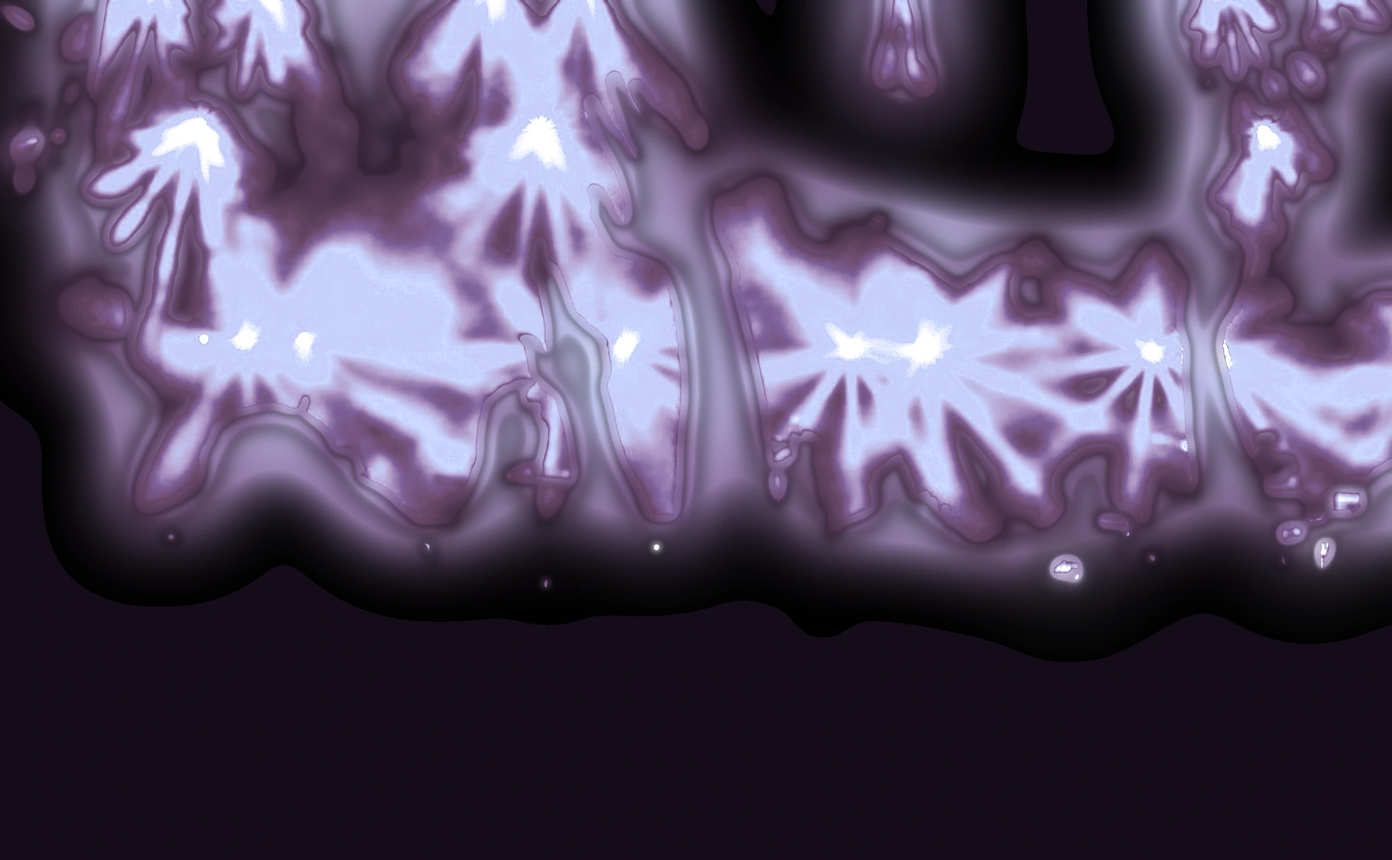
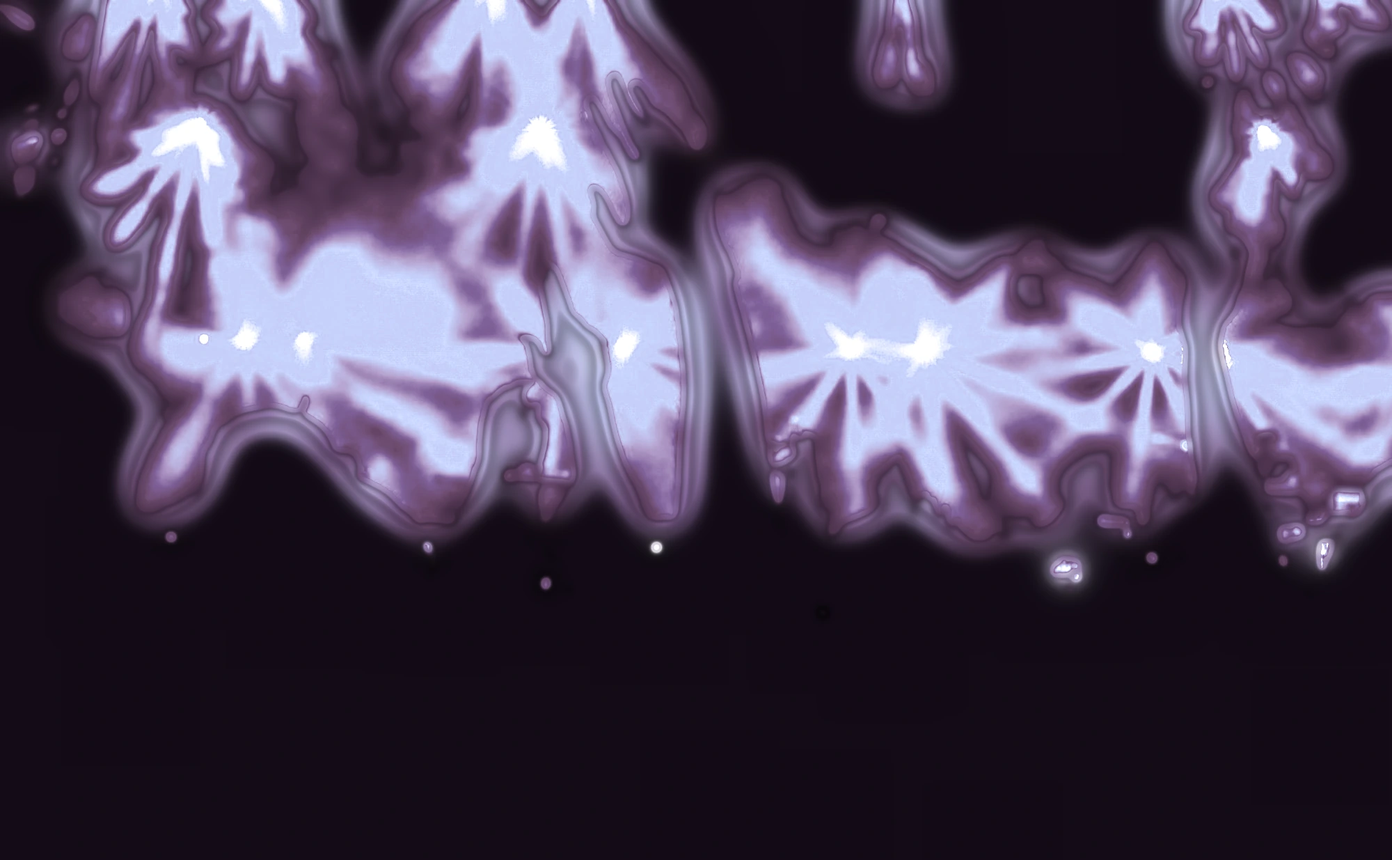
Opening screen gets a live photo; landing and organisers photos move like a crowd
The Tap to enter screen now sits on a full-bleed photo of the crowd under the
lights. Each photo's two layers (lights behind, hands and crowd in front) are
drawn together on the graphics card: a slow wave rolls across the crowd, heads
bob on the beat, raised arms sway most, the stage lights breathe and beams sweep
behind everybody, and a tap sends a ripple through the crowd. Without WebGL, or
with reduced motion, the two images stay as a still photo.

Also: every stylesheet, script and image URL on both pages carries a version
(the zone sets a 4 hour browser cache, which could pair a new page with an old
stylesheet); the live layer's state class no longer collides with the .live
badge style; the glow behind the crowd is limited to near the lights so a
bobbing head shows no halo; link cards are titles only.

Claude-Session: https://claude.ai/code/session_01SiTP2wn1HdnciTk7XSJexB

diff --git a/worker/public/js/livephoto.js b/worker/public/js/livephoto.js
@@ -1,0 +1,175 @@
+// Live photos. Each .lp[data-live] holds two layers of one photo: the lights behind (img.bg) and the dark hands and crowd in
+// front (img.fg). Here both go to the graphics card, where the crowd moves like people (a slow wave rolls across it, heads
+// bob on the beat, raised arms sway the most), the stage lights twinkle and pulse, beams sweep behind everybody, and a tap
+// sends a ripple through the crowd. Without WebGL, or with reduced motion, the two images stay as a still photo.
+(function () {
+  'use strict';
+  var reduce = window.matchMedia && window.matchMedia('(prefers-reduced-motion: reduce)').matches;
+  var els = Array.prototype.slice.call(document.querySelectorAll('.lp[data-live]'));
+  if (!els.length || reduce) return;
+
+  var VS = 'attribute vec2 a;varying vec2 v;void main(){v=a*.5+.5;gl_Position=vec4(a,0.,1.);}';
+  var FS = [
+    '#ifdef GL_FRAGMENT_PRECISION_HIGH', 'precision highp float;', '#else', 'precision mediump float;', '#endif',
+    'varying vec2 v;uniform sampler2D bg;uniform sampler2D fg;',
+    'uniform vec4 crop;uniform float t;uniform float ca;uniform vec3 tap;uniform vec2 mouse;uniform float amp;',
+    'float h(vec2 p){return fract(sin(dot(p,vec2(127.1,311.7)))*43758.5453);}',
+    'float nz(vec2 p){vec2 i=floor(p),f=fract(p);f=f*f*(3.-2.*f);return mix(mix(h(i),h(i+vec2(1.,0.)),f.x),mix(h(i+vec2(0.,1.)),h(i+vec2(1.,1.)),f.x),f.y);}',
+    // one light beam shining down from above the picture
+    'vec3 beam(vec2 p,float ox,float base,float sw,float sp,float ph,vec3 col){',
+    '  vec2 d=p-vec2(ox,-.12);float ang=atan(d.x,d.y);float df=ang-(base+sw*sin(t*sp+ph));',
+    '  float core=exp(-df*df*520.)*.7+exp(-df*df*38.)*.3;',
+    '  return col*core*smoothstep(1.5,.05,length(d));}',
+    'void main(){',
+    '  vec2 uv=crop.zw+vec2(v.x,1.-v.y)*crop.xy;',
+    '  float low=uv.y;',
+    '  float up=pow(clamp(1.-low,0.,1.),1.25);',                                      // raised arms: the higher, the more they sway
+    '  float crowd=smoothstep(.3,.95,low);',                                          // heads and shoulders: the lower, the more they bob
+    '  vec2 d=vec2(0.);',
+    '  d.x+=sin(t*1.7+uv.x*5.5+uv.y*3.)*.0056*up+sin(t*3.1+uv.x*12.)*.0021*up;',
+    '  d.y+=sin(t*3.25+uv.x*7.)*.0034*crowd+sin(t*1.4+uv.x*3.)*.0019*crowd;',        // bob on the beat, plus a slow wave across the crowd
+    '  d.y+=sin(t*2.2+uv.x*6.)*.0024*up;',
+    '  vec2 tp=crop.zw+vec2(tap.x,1.-tap.y)*crop.xy;float age=tap.z;',
+    '  if(age>=0.){vec2 r=uv-tp;r.x*=ca;float dist=length(r);float w=exp(-age*1.7)*sin(dist*46.-age*11.)*exp(-dist*4.5)*.011;d+=normalize(r+1e-5)*w*vec2(1./ca,1.);}',
+    '  d*=amp;',
+    '  vec2 par=(mouse-.5)*vec2(.006,.003);',
+    '  vec4 f=texture2D(fg,uv+d+par);',
+    '  vec3 c=texture2D(bg,uv-par*.6+d*.25).rgb;',
+    '  float L=dot(c,vec3(.299,.587,.114));',
+    '  float lit=smoothstep(.78,.97,L);',
+    '  float tw=nz(uv*vec2(26.,17.)+vec2(t*.45,-t*.7));',
+    '  float pulse=.5+.5*sin(t*3.25);pulse=pulse*pulse*pulse;',
+    '  c+=c*lit*(.2*pulse+.34*(tw-.5));',                                             // only the hottest stage lights twinkle
+    '  c*=1.+.07*pulse;',                                                             // the whole room breathes a little on the beat
+    '  vec2 p=vec2((v.x-.5)*ca,1.-v.y);',
+    '  c+=beam(p,-.55*ca,.34,.28,.43,0.,vec3(.66,.33,.97))*.34;',
+    '  c+=beam(p,.02,.0,.34,.31,2.1,vec3(.36,.55,1.))*.30;',
+    '  c+=beam(p,.55*ca,-.34,.26,.52,4.2,vec3(1.,.31,.85))*.32;',
+    '  c+=vec3(.7,.6,.95)*.09*pulse*smoothstep(.9,.0,length(p-vec2(0.,.35)));',
+    '  vec3 col=clamp(f.rgb+c*(1.-f.a),0.,1.);',
+    '  col=mix(col,col*col*(3.-2.*col),.34);',                                         // a gentle S-curve: deeper darks, cleaner lights
+    '  col*=1.-.2*smoothstep(.55,1.15,length((v-.5)*vec2(1.2,1.)));',                  // a soft dark edge
+    '  gl_FragColor=vec4(col,1.);}'
+  ].join('\n');
+
+  function compile(gl, type, src) { var s = gl.createShader(type); gl.shaderSource(s, src); gl.compileShader(s); return gl.getShaderParameter(s, gl.COMPILE_STATUS) ? s : null; }
+
+  function Live(lp) {
+    this.lp = lp; this.ok = false; this.visible = false; this.tap = [0, 0, -1]; this.tapAt = 0; this.mouse = [.5, .5]; this.mt = [.5, .5];
+    this.dpr = Math.min(window.devicePixelRatio || 1, 2); this.slow = 0;
+    this.bgImg = lp.querySelector('img.bg'); this.fgImg = lp.querySelector('img.fg');
+    this.amp = parseFloat(lp.getAttribute('data-amp')) || 1;
+  }
+  Live.prototype.init = function () {
+    var self = this, lp = this.lp, cv = document.createElement('canvas');
+    cv.className = 'lp-canvas'; cv.setAttribute('aria-hidden', 'true');
+    var gl = null;
+    try { gl = cv.getContext('webgl', { antialias: false, alpha: false, premultipliedAlpha: false }) || cv.getContext('experimental-webgl'); } catch (e) {}
+    if (!gl) return false;
+    var vs = compile(gl, gl.VERTEX_SHADER, VS), fs = compile(gl, gl.FRAGMENT_SHADER, FS);
+    if (!vs || !fs) return false;
+    var pr = gl.createProgram(); gl.attachShader(pr, vs); gl.attachShader(pr, fs); gl.linkProgram(pr);
+    if (!gl.getProgramParameter(pr, gl.LINK_STATUS)) return false;
+    gl.useProgram(pr);
+    var buf = gl.createBuffer(); gl.bindBuffer(gl.ARRAY_BUFFER, buf);
+    gl.bufferData(gl.ARRAY_BUFFER, new Float32Array([-1, -1, 1, -1, -1, 1, 1, 1]), gl.STATIC_DRAW);
+    var loc = gl.getAttribLocation(pr, 'a'); gl.enableVertexAttribArray(loc); gl.vertexAttribPointer(loc, 2, gl.FLOAT, false, 0, 0);
+    this.gl = gl; this.cv = cv; this.pr = pr;
+    this.u = {}; ['bg', 'fg', 'crop', 't', 'ca', 'tap', 'mouse', 'amp'].forEach(function (n) { self.u[n] = gl.getUniformLocation(pr, n); });
+    function tex(img, unit, premult) {
+      var t = gl.createTexture(); gl.activeTexture(gl.TEXTURE0 + unit); gl.bindTexture(gl.TEXTURE_2D, t);
+      gl.pixelStorei(gl.UNPACK_PREMULTIPLY_ALPHA_WEBGL, premult ? 1 : 0);
+      gl.texImage2D(gl.TEXTURE_2D, 0, gl.RGBA, gl.RGBA, gl.UNSIGNED_BYTE, img);
+      gl.texParameteri(gl.TEXTURE_2D, gl.TEXTURE_MIN_FILTER, gl.LINEAR); gl.texParameteri(gl.TEXTURE_2D, gl.TEXTURE_MAG_FILTER, gl.LINEAR);
+      gl.texParameteri(gl.TEXTURE_2D, gl.TEXTURE_WRAP_S, gl.CLAMP_TO_EDGE); gl.texParameteri(gl.TEXTURE_2D, gl.TEXTURE_WRAP_T, gl.CLAMP_TO_EDGE);
+      return t;
+    }
+    try {
+      if (Math.max(this.bgImg.naturalWidth, this.bgImg.naturalHeight) > gl.getParameter(gl.MAX_TEXTURE_SIZE)) return false;
+      this.tBg = tex(this.bgImg, 0, false); this.tFg = tex(this.fgImg, 1, true);
+    } catch (e) { return false; }
+    gl.uniform1i(this.u.bg, 0); gl.uniform1i(this.u.fg, 1);
+    this.iw = this.bgImg.naturalWidth; this.ih = this.bgImg.naturalHeight;
+    cv.addEventListener('webglcontextlost', function (e) { e.preventDefault(); self.drop(); });
+    lp.insertBefore(cv, lp.firstChild);
+    this.size(); this.ok = true; this.draw(0);
+    lp.classList.add('lp-on');                      // the still images and CSS lights step aside
+    return true;
+  };
+  Live.prototype.drop = function () { this.ok = false; this.lp.classList.remove('lp-on'); if (this.cv && this.cv.parentNode) this.cv.parentNode.removeChild(this.cv); };
+  Live.prototype.size = function () {
+    var r = this.lp.getBoundingClientRect(), w = Math.max(2, Math.round(r.width * this.dpr)), h = Math.max(2, Math.round(r.height * this.dpr));
+    if (this.cv.width !== w || this.cv.height !== h) { this.cv.width = w; this.cv.height = h; this.gl.viewport(0, 0, w, h); }
+  };
+  Live.prototype.pos = function () {                // the --pos / --pos-m focus point, as object-position does for the still photo
+    var cs = getComputedStyle(this.lp), raw = (window.innerWidth <= 760 && cs.getPropertyValue('--pos-m').trim()) || cs.getPropertyValue('--pos').trim() || '50% 40%';
+    var m = raw.split(/\s+/).map(function (s) { return parseFloat(s) / 100; });
+    return [isNaN(m[0]) ? .5 : m[0], isNaN(m[1]) ? .4 : m[1]];
+  };
+  Live.prototype.draw = function (t) {
+    var gl = this.gl; if (!this.ok || !gl) return;
+    var cw = this.cv.width, ch = this.cv.height, ca = cw / ch, ia = this.iw / this.ih, p = this.pos();
+    var sx = 1, sy = 1, ox = 0, oy = 0;
+    if (ca > ia) { sy = ia / ca; oy = (1 - sy) * p[1]; } else { sx = ca / ia; ox = (1 - sx) * p[0]; }
+    var z = 1.035 + .02 * (.5 + .5 * Math.sin(t * .09));            // a slow push in and out
+    var nsx = sx / z, nsy = sy / z; ox += (sx - nsx) * .5; oy += (sy - nsy) * .5;
+    this.mouse[0] += (this.mt[0] - this.mouse[0]) * .05; this.mouse[1] += (this.mt[1] - this.mouse[1]) * .05;
+    var age = this.tap[2] >= 0 ? t - this.tapAt : -1; if (age > 3.2) { age = -1; this.tap[2] = -1; }
+    gl.uniform4f(this.u.crop, nsx, nsy, ox, oy); gl.uniform1f(this.u.t, t); gl.uniform1f(this.u.ca, ca);
+    gl.uniform3f(this.u.tap, this.tap[0], this.tap[1], age); gl.uniform2f(this.u.mouse, this.mouse[0], this.mouse[1]); gl.uniform1f(this.u.amp, this.amp);
+    gl.drawArrays(gl.TRIANGLE_STRIP, 0, 4);
+  };
+
+  var items = [], t0 = performance.now(), docVisible = true;
+  document.addEventListener('visibilitychange', function () { docVisible = !document.hidden; });
+
+  function ready(img, cb) { if (img.complete && img.naturalWidth) cb(); else { img.addEventListener('load', cb, { once: true }); } }
+  function boot(lp) {
+    var it = new Live(lp); items.push(it);
+    if (!it.bgImg || !it.fgImg) return;
+    var started = false;
+    function go() { if (started) return; started = true; var n = 0; function one() { if (++n < 2) return; if (!it.init()) it.ok = false; } ready(it.bgImg, one); ready(it.fgImg, one); }
+    if ('IntersectionObserver' in window) {
+      new IntersectionObserver(function (es) { es.forEach(function (e) { it.visible = e.isIntersecting; if (e.isIntersecting) go(); }); }, { rootMargin: '300px 0px' }).observe(lp);
+    } else { it.visible = true; go(); }
+  }
+  els.forEach(boot);
+
+  var last = 0;
+  function frame(now) {
+    requestAnimationFrame(frame);
+    if (!docVisible) return;
+    var dt = now - last; if (dt < 15) return; last = now;
+    var t = (now - t0) / 1000;
+    for (var i = items.length - 1; i >= 0; i--) {                     // the opening screen is removed from the page once it has played: give its memory back
+      var gone = items[i]; if (gone.lp.isConnected) continue;
+      try { var lose = gone.gl && gone.gl.getExtension('WEBGL_lose_context'); if (lose) lose.loseContext(); } catch (e) {}
+      gone.ok = false; items.splice(i, 1);
+    }
+    for (var i = 0; i < items.length; i++) {
+      var it = items[i]; if (!it.ok || !it.visible) continue;
+      it.size(); it.draw(t);
+      if (dt > 42) { it.slow++; if (it.slow > 40 && it.dpr > 1) { it.dpr = 1; it.slow = 0; } } else if (it.slow > 0) it.slow--;   // slow device: draw smaller
+    }
+  }
+  requestAnimationFrame(frame);
+
+  // taps and the pointer reach the crowd
+  document.addEventListener('pointerdown', function (e) {
+    var t = (performance.now() - t0) / 1000;
+    items.forEach(function (it) {
+      if (!it.ok || !it.visible) return;
+      var r = it.lp.getBoundingClientRect();
+      if (e.clientX < r.left || e.clientX > r.right || e.clientY < r.top || e.clientY > r.bottom) return;
+      it.tap = [(e.clientX - r.left) / r.width, (e.clientY - r.top) / r.height, 0]; it.tapAt = t;
+    });
+  }, { passive: true });
+  document.addEventListener('pointermove', function (e) {
+    items.forEach(function (it) {
+      if (!it.ok || !it.visible) return;
+      var r = it.lp.getBoundingClientRect();
+      if (e.clientY < r.top || e.clientY > r.bottom) return;
+      it.mt = [(e.clientX - r.left) / r.width, (e.clientY - r.top) / r.height];
+    });
+  }, { passive: true });
+})();

diff --git a/worker/public/index.html b/worker/public/index.html
@@ -23,20 +23,25 @@
 <meta name="apple-mobile-web-app-title" content="Tap In">
 <link rel="preconnect" href="https://fonts.googleapis.com">
 <link rel="stylesheet" href="https://fonts.googleapis.com/css2?family=Syne:wght@600;700;800&family=Manrope:wght@400;500;600;700&family=JetBrains+Mono:wght@400;500&display=swap">
-<link rel="stylesheet" href="/css/tapin.css">
-<link rel="stylesheet" href="/site.css">
-<link rel="stylesheet" href="/css/fx.css">
-<link rel="stylesheet" href="/home.css">
-<script src="/js/theme.js"></script>
-<script src="/js/site.js" defer></script>
-<script src="/js/fx.js" defer></script>
-<script src="/js/liquid.js" defer></script>
-<script src="/js/home.js" defer></script>
-<script src="/js/intro.js" defer></script>
-<script src="/js/rave.js" defer></script>
+<link rel="stylesheet" href="/css/tapin.css?v=7">
+<link rel="stylesheet" href="/site.css?v=7">
+<link rel="stylesheet" href="/css/fx.css?v=7">
+<link rel="stylesheet" href="/home.css?v=7">
+<script src="/js/theme.js?v=7"></script>
+<script src="/js/site.js?v=7" defer></script>
+<script src="/js/fx.js?v=7" defer></script>
+<script src="/js/liquid.js?v=7" defer></script>
+<script src="/js/home.js?v=7" defer></script>
+<script src="/js/livephoto.js?v=7" defer></script>
+<script src="/js/intro.js?v=7" defer></script>
+<script src="/js/rave.js?v=7" defer></script>
 </head>
 <body class="home fx">
 <div class="intro" id="intro" role="dialog" aria-modal="true" aria-label="Welcome to Tap In">
+  <div class="lp intro-photo" data-live data-amp="1" style="--pos:50% 52%;--pos-m:54% 52%" aria-hidden="true">
+    <div class="lp-stage"><img class="bg" src="/img/beams-bg.webp?v=7" width="2000" height="1333" alt="" fetchpriority="high" decoding="async"><img class="fg" src="/img/beams-fg.webp?v=7" width="2000" height="1333" alt="" fetchpriority="high" decoding="async"></div>
+    <i class="lp-beam b1"></i><i class="lp-beam b2"></i><i class="lp-beam b3"></i><i class="lp-pulse"></i>
+  </div>
   <span class="veil" aria-hidden="true"></span>
   <span class="spill" aria-hidden="true"></span>
   <div class="intro-center" id="introCenter">
@@ -67,8 +72,8 @@
 </header>
 
 <main>
-  <section class="lp photo-hero" style="--pos:50% 28%;--pos-m:62% 30%">
-    <div class="lp-stage"><img class="bg" src="/img/hands-bg.webp" width="2000" height="1235" alt="" fetchpriority="high" decoding="async"><img class="fg" src="/img/hands-fg.webp" width="2000" height="1235" alt="A crowd at a night show with hands raised towards the stage lights" fetchpriority="high" decoding="async"></div>
+  <section class="lp photo-hero" data-live style="--pos:50% 28%;--pos-m:62% 30%">
+    <div class="lp-stage"><img class="bg" src="/img/hands-bg.webp?v=7" width="2000" height="1235" alt="" fetchpriority="high" decoding="async"><img class="fg" src="/img/hands-fg.webp?v=7" width="2000" height="1235" alt="A crowd at a night show with hands raised towards the stage lights" fetchpriority="high" decoding="async"></div>
     <i class="lp-beam b1"></i><i class="lp-beam b2"></i><i class="lp-beam b3"></i><i class="lp-pulse"></i>
     <div class="lp-copy wrap hero-copy">
       <h1>No paper. <span class="hl">Just tap in.</span></h1>
@@ -79,8 +84,8 @@
     </div>
   </section>
 
-  <section class="lp band" style="--pos:50% 62%" aria-label="Find, get, tap in">
-    <div class="lp-stage"><img class="bg" src="/img/beams-bg.webp" width="2000" height="1333" alt="" loading="lazy" decoding="async"><img class="fg" src="/img/beams-fg.webp" width="2000" height="1333" alt="A crowd facing a DJ on stage, with beams of light crossing above them" loading="lazy" decoding="async"></div>
+  <section class="lp band" data-live style="--pos:50% 62%" aria-label="Find, get, tap in">
+    <div class="lp-stage"><img class="bg" src="/img/beams-bg.webp?v=7" width="2000" height="1333" alt="" loading="lazy" decoding="async"><img class="fg" src="/img/beams-fg.webp?v=7" width="2000" height="1333" alt="A crowd facing a DJ on stage, with beams of light crossing above them" loading="lazy" decoding="async"></div>
     <i class="lp-beam b1"></i><i class="lp-beam b2"></i><i class="lp-beam b3"></i><i class="lp-pulse"></i>
     <div class="lp-copy wrap">
       <ol class="words">
@@ -93,8 +98,8 @@
 
   <section class="wrap sec rv" id="guests">
     <div class="split">
-      <div class="lp tall" style="--pos:50% 60%">
-        <div class="lp-stage"><img class="bg" src="/img/hand-up-bg.webp" width="1500" height="2000" alt="" loading="lazy" decoding="async"><img class="fg" src="/img/hand-up-fg.webp" width="1500" height="2000" alt="One raised hand in a crowd in front of glowing stage lights" loading="lazy" decoding="async"></div>
+      <div class="lp tall" data-live style="--pos:50% 60%">
+        <div class="lp-stage"><img class="bg" src="/img/hand-up-bg.webp?v=7" width="1500" height="2000" alt="" loading="lazy" decoding="async"><img class="fg" src="/img/hand-up-fg.webp?v=7" width="1500" height="2000" alt="One raised hand in a crowd in front of glowing stage lights" loading="lazy" decoding="async"></div>
     <i class="lp-beam b1"></i><i class="lp-beam b2"></i><i class="lp-beam b3"></i><i class="lp-pulse"></i>
       </div>
       <ul class="lines">
@@ -107,9 +112,9 @@
 
   <section class="wrap sec rv">
     <div class="portals">
-      <a class="portal spot" href="/play/"><p class="eyebrow">Going out?</p><h3>Find an event</h3><span class="more">Upcoming events &rarr;</span></a>
-      <a class="portal spot" href="/organisers/"><p class="eyebrow">Running one?</p><h3>For organisers</h3><span class="more">See what you get &rarr;</span></a>
-      <a class="portal spot" href="/business/"><p class="eyebrow">Offices</p><h3>Tap In for Business</h3><span class="more">Staff and visitor check-in &rarr;</span></a>
+      <a class="portal spot" href="/play/"><h3>Find an event</h3><span class="more">Upcoming events &rarr;</span></a>
+      <a class="portal spot" href="/organisers/"><h3>For organisers</h3><span class="more">See what you get &rarr;</span></a>
+      <a class="portal spot" href="/business/"><h3>Tap In for Business</h3><span class="more">Staff and visitor check-in &rarr;</span></a>
     </div>
   </section>
 

diff --git a/worker/public/home.css b/worker/public/home.css
@@ -239,7 +239,7 @@ html.intro-lock main,html.intro-lock .topbar,html.intro-lock .progress{opacity:0
 .topbar{transition:opacity .9s ease .2s}
 html.intro-lock .hero-copy>*,html.intro-lock .stage{animation-play-state:paused!important}
 /* a soft dark edge so the logo stays legible; it opens up like an iris when you tap */
-.intro .veil{position:absolute;inset:0;background:radial-gradient(90% 75% at 50% 48%,transparent 30%,color-mix(in srgb,var(--ink) 62%,transparent) 100%);transition:transform 1.5s cubic-bezier(.6,0,.2,1) .15s,opacity 1.2s ease .3s}
+.intro .veil{position:absolute;inset:0;background:radial-gradient(90% 75% at 50% 48%,transparent 40%,color-mix(in srgb,var(--ink) 38%,transparent) 100%);transition:transform 1.5s cubic-bezier(.6,0,.2,1) .15s,opacity 1.2s ease .3s}
 .intro .spill{position:absolute;left:50%;top:50%;width:0;height:0;border-radius:50%;transform:translate(-50%,-50%);background:radial-gradient(closest-side,#fff,color-mix(in srgb,var(--signal) 65%,transparent) 45%,transparent);opacity:0;pointer-events:none}
 .intro-center{position:absolute;inset:0;display:grid;place-content:center;justify-items:center;text-align:center;gap:clamp(14px,3vh,28px);padding:24px;z-index:2;transition:opacity .9s ease .1s,transform 1.2s cubic-bezier(.5,0,.2,1),filter 1s ease}
 .intro-logo{margin:0;width:min(88vw,900px);line-height:0;font-size:0;color:#fff;filter:drop-shadow(0 0 34px color-mix(in srgb,var(--signal) 55%,transparent)) drop-shadow(0 6px 30px rgba(0,0,0,.35))}
@@ -269,14 +269,14 @@ html.intro-lock .hero-copy>*,html.intro-lock .stage{animation-play-state:paused!
 .intro.go .spill{animation:spill 1.4s ease-out .25s both}
 @keyframes spill{0%{width:0;height:0;opacity:0}20%{opacity:.95}100%{width:230vmax;height:230vmax;opacity:0}}
 .intro.out{opacity:0;transition:opacity .5s;pointer-events:none}
-body.entered .hero2{animation:push 1.7s cubic-bezier(.2,.7,.2,1) both}
+body.entered .photo-hero{animation:push 1.7s cubic-bezier(.2,.7,.2,1) both}
 @keyframes push{from{transform:scale(1.12);filter:blur(7px)}}
 
 /* film grain, very light, over the whole home page */
 .grain{position:fixed;inset:0;z-index:80;pointer-events:none;opacity:.07;mix-blend-mode:overlay;background-size:160px 160px;animation:grain 1.1s steps(6) infinite}
 @keyframes grain{0%{background-position:0 0}20%{background-position:-60px 40px}40%{background-position:50px -70px}60%{background-position:-80px -30px}80%{background-position:60px 60px}100%{background-position:0 0}}
 :root[data-mode="light"] .grain{opacity:.1}
-@media(prefers-reduced-motion:reduce){.intro{display:none!important}.grain{animation:none}.tapbtn .rings i{animation:none}body.entered .hero2{animation:none}}
+@media(prefers-reduced-motion:reduce){.intro{display:none!important}.grain{animation:none}.tapbtn .rings i{animation:none}body.entered .photo-hero{animation:none}}
 
 /* keyboard focus on the Tap button: a glow around the round button, not a rectangle */
 .tapbtn:focus{outline:none}
@@ -325,6 +325,8 @@ body.entered .hero2{animation:push 1.7s cubic-bezier(.2,.7,.2,1) both}
 
 /* ===== Live photos: the lights sit behind, the dark hands and crowd are a second layer that sways in front ===== */
 .lp{position:relative;overflow:hidden;isolation:isolate;background:#120912;color:#fff}
+.lp-canvas{position:absolute;inset:0;width:100%;height:100%;display:block}
+.lp.lp-on .lp-stage,.lp.lp-on .lp-beam,.lp.lp-on .lp-pulse{display:none}
 .lp-stage{position:absolute;inset:-3%;animation:lpdrift 26s ease-in-out infinite alternate}
 .lp-stage img{position:absolute;inset:0;width:100%;height:100%;object-fit:cover;object-position:var(--pos,50% 40%);display:block;-webkit-user-drag:none;user-select:none}
 .lp-stage .bg{animation:lpbeatscale .968s ease-in-out infinite alternate}
@@ -374,3 +376,15 @@ body.entered .hero2{animation:push 1.7s cubic-bezier(.2,.7,.2,1) both}
 @media(max-width:760px){.split,.six,.portals{grid-template-columns:1fr}.lp.tall{aspect-ratio:4/5}.photo-hero{height:clamp(520px,calc(100svh - 64px),760px)}.lp-stage img{object-position:var(--pos-m,var(--pos,50% 40%))}.sec{padding-top:36px}}
 @media(max-width:560px){.words.long b{font-size:5.5vw}}
 @media(prefers-reduced-motion:reduce){.lp-stage,.lp-stage .bg,.lp-stage .fg,.lp-beam,.lp-pulse{animation:none!important}.lp-pulse{opacity:.06}}
+
+/* ===== The opening screen: a full-bleed photo of the crowd under the lights, alive behind the logo ===== */
+.intro .intro-photo{position:absolute;inset:0;transition:opacity 1.2s ease .2s,transform 1.7s cubic-bezier(.5,0,.2,1)}
+.intro .intro-photo::after{background:radial-gradient(58% 52% at 50% 48%,rgba(13,7,15,.58),rgba(13,7,15,.14) 78%,transparent),linear-gradient(0deg,rgba(13,7,15,.6),transparent 38%)}
+.intro.go .intro-photo{opacity:0;transform:scale(1.16)}
+.intro.out .intro-photo{opacity:0}
+/* the photo is dark in both colour modes, so the lettering on it stays light */
+.intro .intro-logo,:root[data-mode="light"] .intro .intro-logo{color:#fff}
+.intro .intro-logo .in,:root[data-mode="light"] .intro .intro-logo .in{color:#c9bbf0}
+.intro .intro-tag{color:#e4d9ee;text-shadow:0 1px 14px rgba(13,7,15,.6)}
+.intro .tapbtn,.intro .tapbtn .lbl{color:#fff}
+.intro .intro-skip{color:#e4d9ee;border-color:rgba(255,255,255,.4);background:rgba(18,9,18,.38);backdrop-filter:blur(8px);-webkit-backdrop-filter:blur(8px)}

diff --git a/worker/public/organisers/index.html b/worker/public/organisers/index.html
@@ -23,15 +23,16 @@
 <meta name="apple-mobile-web-app-title" content="Tap In">
 <link rel="preconnect" href="https://fonts.googleapis.com">
 <link rel="stylesheet" href="https://fonts.googleapis.com/css2?family=Syne:wght@600;700;800&family=Manrope:wght@400;500;600;700&family=JetBrains+Mono:wght@400;500&display=swap">
-<link rel="stylesheet" href="/css/tapin.css">
-<link rel="stylesheet" href="/site.css">
-<link rel="stylesheet" href="/css/fx.css">
-<link rel="stylesheet" href="/home.css">
-<script src="/js/theme.js"></script>
-<script src="/js/site.js" defer></script>
-<script src="/js/fx.js" defer></script>
-<script src="/js/liquid.js" defer></script>
-<script src="/js/home.js" defer></script>
+<link rel="stylesheet" href="/css/tapin.css?v=7">
+<link rel="stylesheet" href="/site.css?v=7">
+<link rel="stylesheet" href="/css/fx.css?v=7">
+<link rel="stylesheet" href="/home.css?v=7">
+<script src="/js/theme.js?v=7"></script>
+<script src="/js/site.js?v=7" defer></script>
+<script src="/js/fx.js?v=7" defer></script>
+<script src="/js/liquid.js?v=7" defer></script>
+<script src="/js/home.js?v=7" defer></script>
+<script src="/js/livephoto.js?v=7" defer></script>
 </head>
 <body class="home fx">
 <div class="progress" id="progress" aria-hidden="true"><i></i></div>
@@ -50,8 +51,8 @@
 </header>
 
 <main>
-  <section class="lp photo-hero" style="--pos:50% 40%;--pos-m:44% 40%">
-    <div class="lp-stage"><img class="bg" src="/img/beams-bg.webp" width="2000" height="1333" alt="" fetchpriority="high" decoding="async"><img class="fg" src="/img/beams-fg.webp" width="2000" height="1333" alt="A crowd facing a DJ on stage, with beams of light crossing above them" fetchpriority="high" decoding="async"></div>
+  <section class="lp photo-hero" data-live style="--pos:50% 40%;--pos-m:44% 40%">
+    <div class="lp-stage"><img class="bg" src="/img/beams-bg.webp?v=7" width="2000" height="1333" alt="" fetchpriority="high" decoding="async"><img class="fg" src="/img/beams-fg.webp?v=7" width="2000" height="1333" alt="A crowd facing a DJ on stage, with beams of light crossing above them" fetchpriority="high" decoding="async"></div>
     <i class="lp-beam b1"></i><i class="lp-beam b2"></i><i class="lp-beam b3"></i><i class="lp-pulse"></i>
     <div class="lp-copy wrap hero-copy">
       <h1><span class="hl">Tap in.</span> We&rsquo;ve got the gate.</h1>
@@ -74,8 +75,8 @@
     </div>
   </section>
 
-  <section class="lp band" style="--pos:50% 30%" aria-label="Create, share, scan">
-    <div class="lp-stage"><img class="bg" src="/img/hands-bg.webp" width="2000" height="1235" alt="" loading="lazy" decoding="async"><img class="fg" src="/img/hands-fg.webp" width="2000" height="1235" alt="A crowd at a night show with hands raised towards the stage lights" loading="lazy" decoding="async"></div>
+  <section class="lp band" data-live style="--pos:50% 30%" aria-label="Create, share, scan">
+    <div class="lp-stage"><img class="bg" src="/img/hands-bg.webp?v=7" width="2000" height="1235" alt="" loading="lazy" decoding="async"><img class="fg" src="/img/hands-fg.webp?v=7" width="2000" height="1235" alt="A crowd at a night show with hands raised towards the stage lights" loading="lazy" decoding="async"></div>
     <i class="lp-beam b1"></i><i class="lp-beam b2"></i><i class="lp-beam b3"></i><i class="lp-pulse"></i>
     <div class="lp-copy wrap">
       <ol class="words long">
@@ -107,9 +108,9 @@
 
   <section class="wrap sec rv">
     <div class="portals">
-      <a class="portal spot" href="/organiser/"><p class="eyebrow">Ready?</p><h3>Organiser console</h3><span class="more">Sign in or start &rarr;</span></a>
-      <a class="portal spot" href="/play/"><p class="eyebrow">Going out?</p><h3>Find an event</h3><span class="more">Upcoming events &rarr;</span></a>
-      <a class="portal spot" href="/business/"><p class="eyebrow">Offices</p><h3>Tap In for Business</h3><span class="more">Staff and visitor check-in &rarr;</span></a>
+      <a class="portal spot" href="/organiser/"><h3>Organiser console</h3><span class="more">Sign in or start &rarr;</span></a>
+      <a class="portal spot" href="/play/"><h3>Find an event</h3><span class="more">Upcoming events &rarr;</span></a>
+      <a class="portal spot" href="/business/"><h3>Tap In for Business</h3><span class="more">Staff and visitor check-in &rarr;</span></a>
     </div>
   </section>
 
